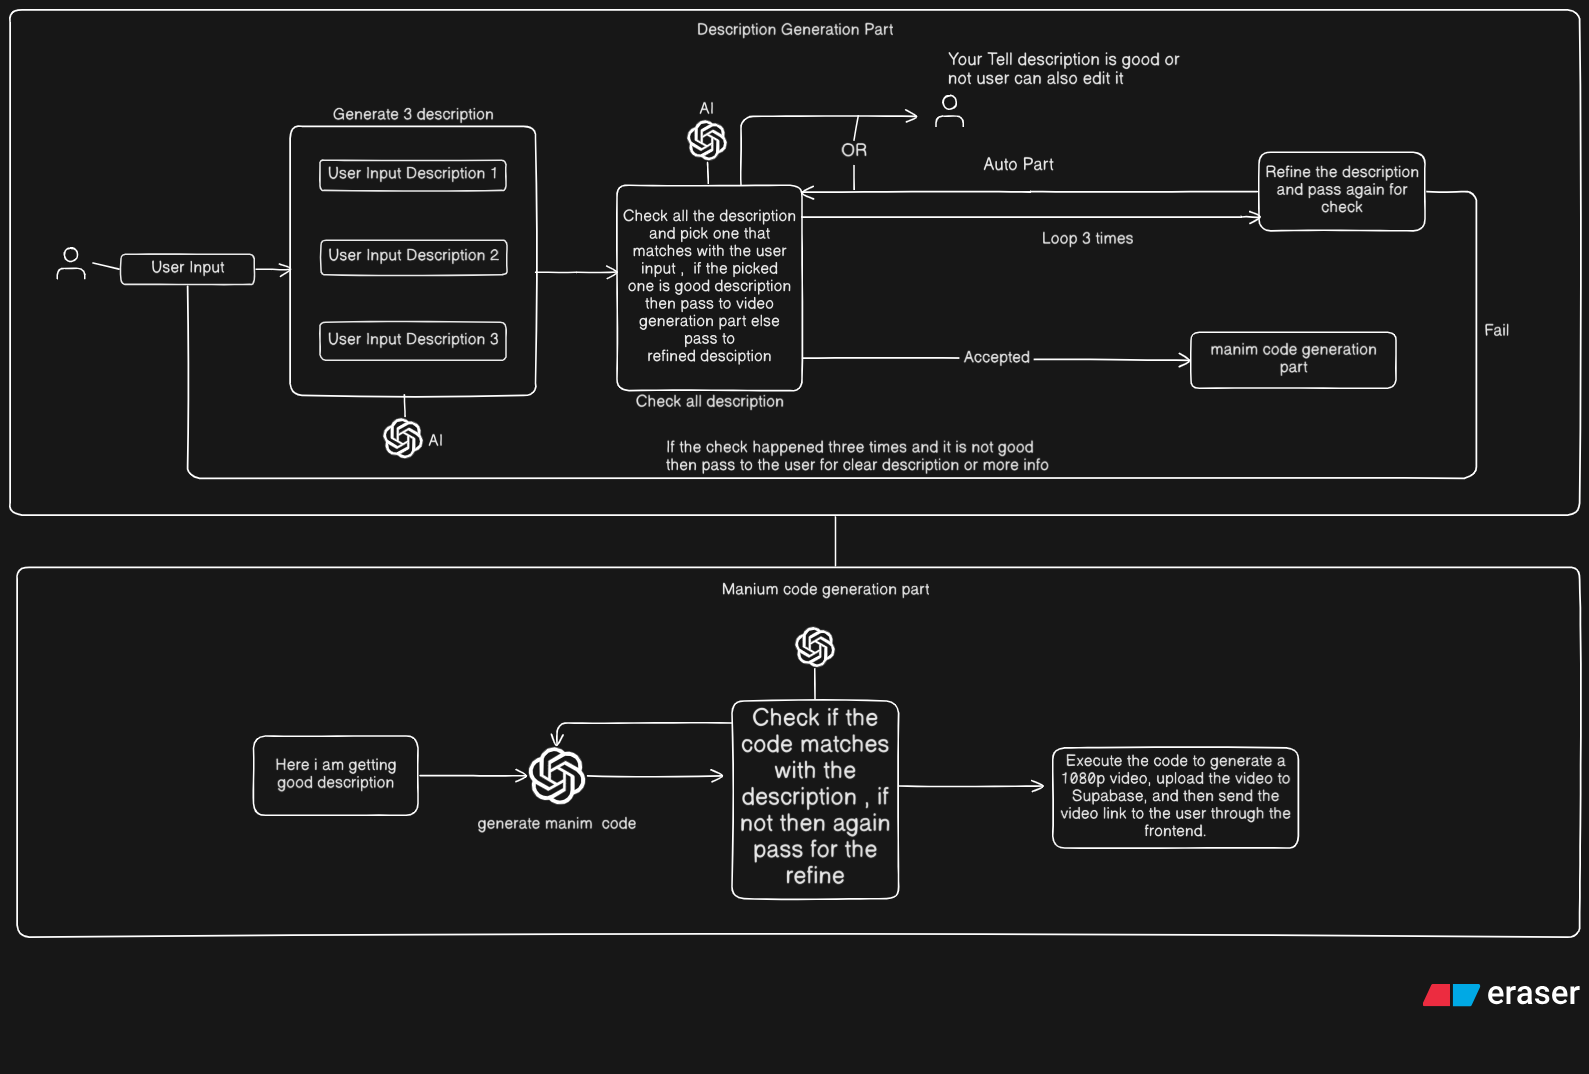
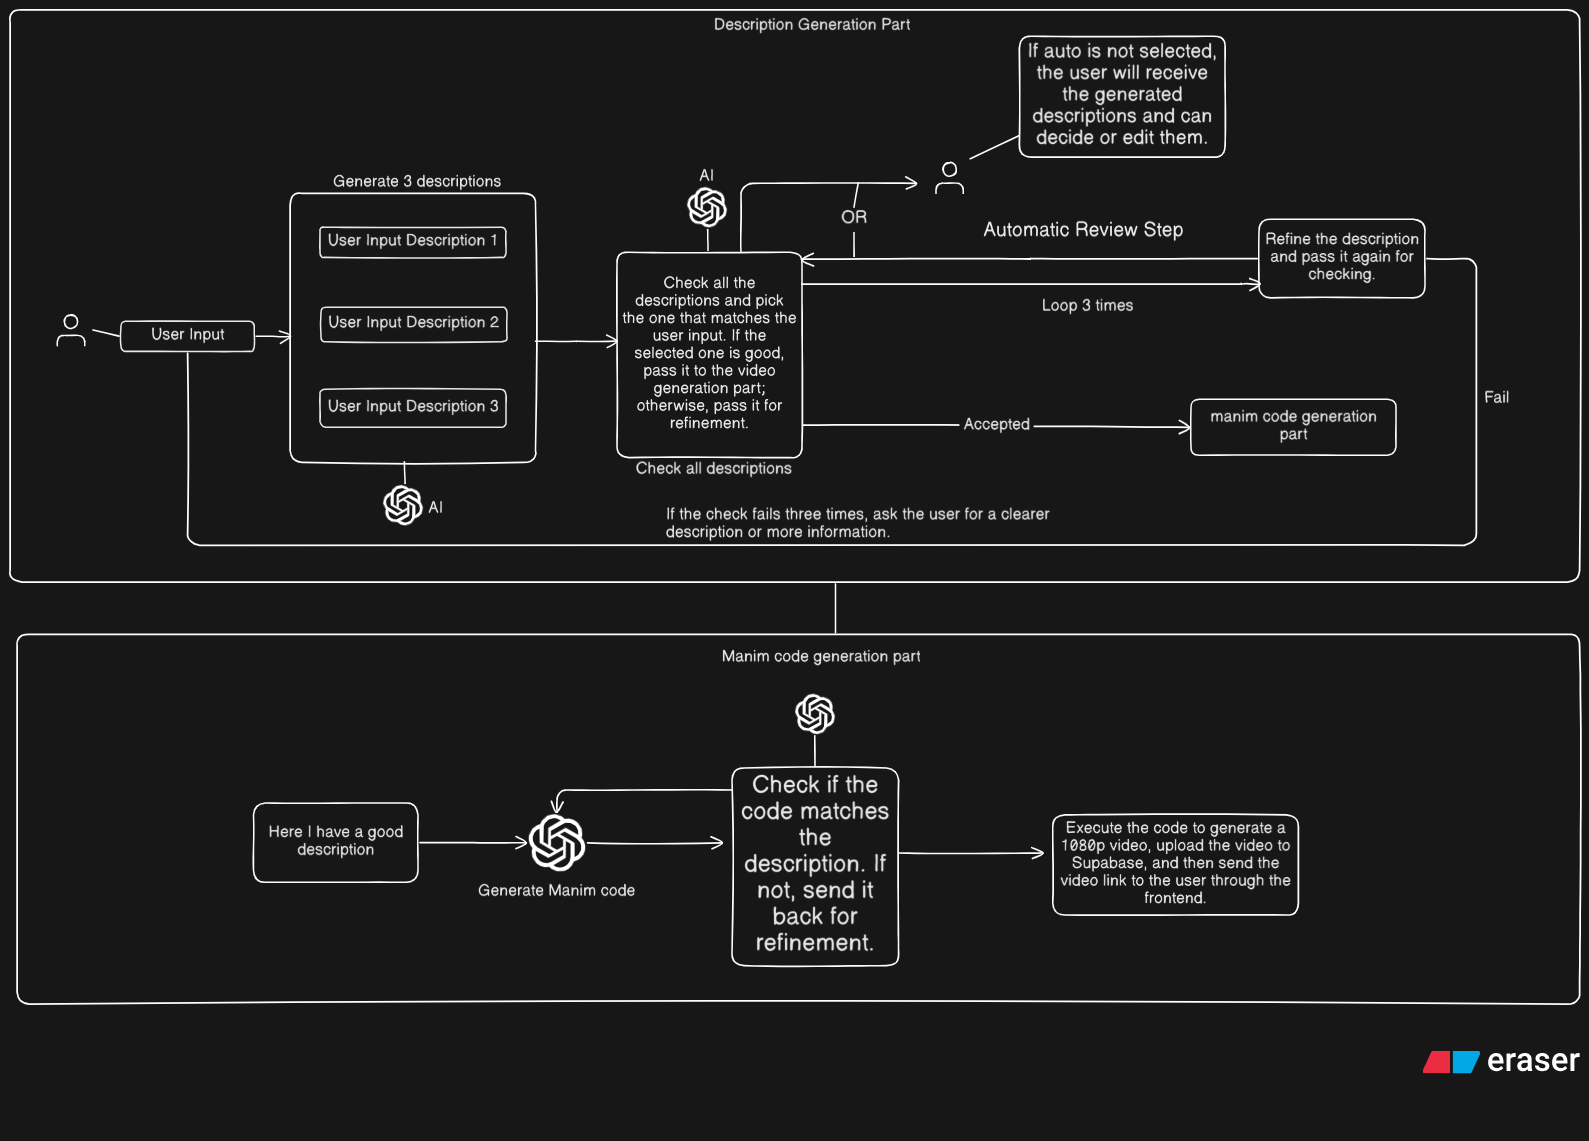
good image and readme added

diff --git a/README.md b/README.md
@@ -1,4 +1,3 @@
-# mainVideoGenerate
 # AI-Powered Manim Video Generator
 
 An intelligent pipeline that transforms simple text prompts into high-quality, 1080p animated videos using the Manim engine and generative AI.
@@ -44,15 +43,26 @@ This stage takes the approved description and handles all technical aspects of c
 
 ## 🛠 Technology Stack
 
-- **Core Animation Engine**: [Manim](https://www.manim.community/)
-- **AI & Machine Learning**:
-  - Generative AI for Text & Code Generation (e.g., GPT-4, Gemini, or similar LLMs)
-- **Backend**:
-  - Python
-  - A web framework like FastAPI or Flask
-- **Storage**: [Supabase](https://supabase.io/)
-- **Frontend**:
-  - A modern JavaScript framework (e.g., React, Vue, Svelte)
+-   **Core Animation Engine**:
+    -   [Manim](https://www.manim.community/)
+
+-   **Backend**:
+    -   [Python](https://www.python.org/)
+    -   [FastAPI](https://fastapi.tiangolo.com/) for the web server
+    -   [Pydantic](https://pydantic.dev/) for data validation
+
+-   **AI & Orchestration**:
+    -   [LangChain](https://www.langchain.com/) & [LangGraph](https://langchain-ai.github.io/langgraph/) for building the agentic pipeline
+    -   [LangSmith](https://www.langchain.com/langsmith) for debugging and observability
+    -   Generative AI Models (e.g., GPT, Gemini)
+
+-   **Frontend**:
+    -   [React](https://react.dev/)
+    -   [Material-UI (MUI)](https://mui.com/) for UI components
+
+-   **Database & Storage**:
+    -   [PostgreSQL](https://www.postgresql.org/)
+    -   [Supabase](https://supabase.io/) for video storage and delivery
 
 ## 🚀 Getting Started
 
@@ -68,7 +78,7 @@ Instructions on how to set up and run this project locally will be added here.
 
 1.  Clone the repo
     ```sh
-    git clone https://github.com/SurajPatel04/mainVideoGenerate.git
+    git clone [https://github.com/SurajPatel04/mainVideoGenerate.git](https://github.com/SurajPatel04/mainVideoGenerate.git)
     ```
 2.  Install backend dependencies
     ```sh
@@ -80,4 +90,3 @@ Instructions on how to set up and run this project locally will be added here.
     cd ../frontend
     npm install
     ```
-
